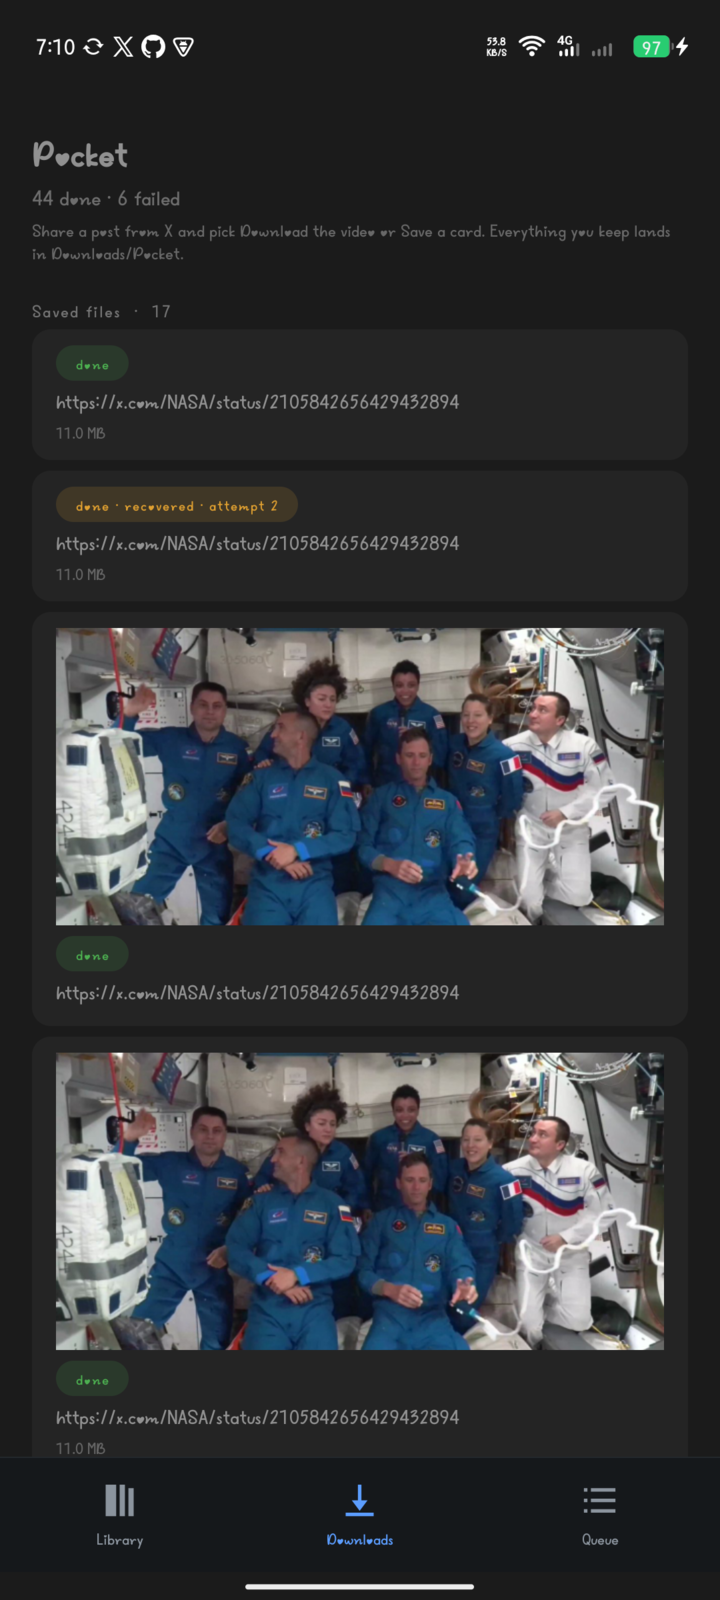
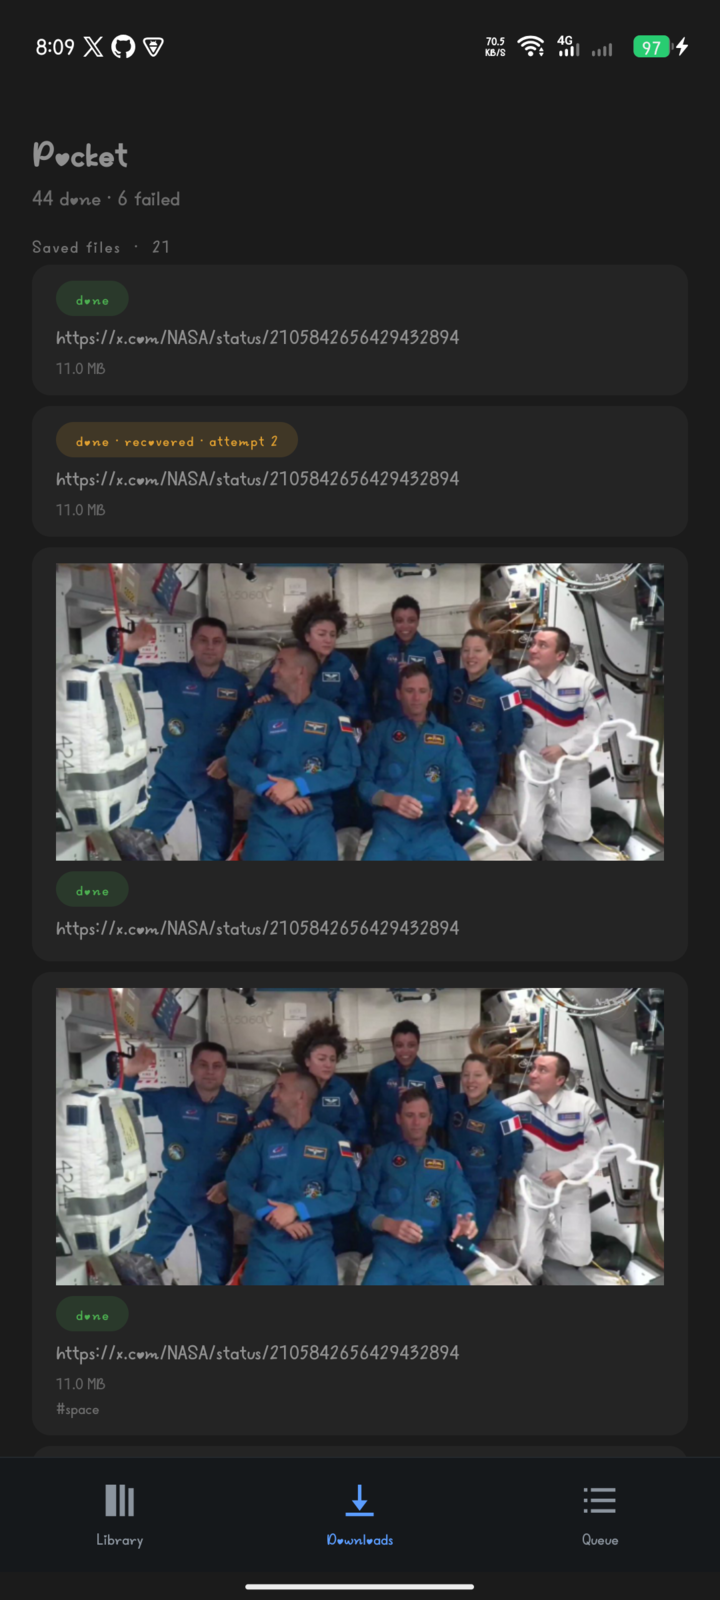
Drop the last line of chrome from the header and make the README true
The header kept a permanent instruction line under the name and summary, which is
not what a minimal header means; the per-view empty states already say what to do,
so the line is gone.

The README still described two in-app buttons for creating jobs, which no longer
exist, and pointed at an earlier recording whose script used them. Sharing is the
only entry point now and the text says so, the superseded gif is removed, and the
tab screenshots are recaptured against this build.

diff --git a/android/app/src/main/java/dev/kouragita/pocket/MainActivity.kt b/android/app/src/main/java/dev/kouragita/pocket/MainActivity.kt
@@ -31,7 +31,6 @@ class MainActivity : Activity() {
     private lateinit var status: TextView
     private lateinit var title: TextView
     private lateinit var summary: TextView
-    private lateinit var hint: TextView
     private lateinit var jobs: LinearLayout
     private lateinit var tabs: LinearLayout
 
@@ -177,13 +176,6 @@ class MainActivity : Activity() {
             setPadding(0, 8, 0, 2)
         }
         summary = TextView(this).apply { textSize = 16f; alpha = 0.7f; setPadding(0, 2, 0, 2) }
-        hint = TextView(this).apply {
-            text = "Share a post from X and pick Download the video or Save a card. " +
-                "Everything you keep lands in Downloads/Pocket."
-            textSize = 13f
-            alpha = 0.65f
-            setPadding(0, 4, 0, 20)
-        }
         jobs = LinearLayout(this).apply { orientation = LinearLayout.VERTICAL }
         tabs = LinearLayout(this).apply {
             orientation = LinearLayout.HORIZONTAL
@@ -198,7 +190,6 @@ class MainActivity : Activity() {
             addView(status)
             addView(title)
             addView(summary)
-            addView(hint)
             addView(jobs)
         }
         val scrolling = ScrollView(this).apply {
@@ -330,7 +321,6 @@ class MainActivity : Activity() {
                 parts.joinToString(" · ")
             }
         }
-        hint.visibility = if (selectedTab == 2 && current.isNotEmpty()) LinearLayout.GONE else LinearLayout.VISIBLE
 
         jobs.removeAllViews()
         val saved = current.filter { it.savedFile != null || it.raw?.optString("kind") == "card" }

diff --git a/README.md b/README.md
@@ -51,11 +51,9 @@ A finished text job arrives as a notification carrying **Copy hash** and **Share
 
 ![notification](docs/pocket-notification.png)
 
-[`docs/share.gif`](docs/share.gif) is one continuous recording on the phone. In order: the
-app open, the system share sheet opened over another app with Pocket in it, the share
-arriving as a job, that result appearing as a heads-up notification, **Slow job (6s)**
-started, the process force-stopped while it was in flight, and after reopening the same job
-back at the top of the list as `done · recovered · attempt 2`.
+[`docs/pocket-story.mp4`](docs/pocket-story.mp4) is the recorded flow on the phone: a
+post shared from the X app, a format chosen, the job running, the app killed while it was
+in flight, and the same job recovered and published after reopening.
 
 ## How it works
 
@@ -160,9 +158,9 @@ Open the app once so the host starts, then share text from any other app. The fi
 share works too: it retries until the host is ready, because a share can launch the
 process before Rivium has finished starting.
 
-Two buttons in the app post to the same endpoint a share uses, so you can exercise
-everything without leaving the app or touching a terminal: **Try a sample**, and
-**Slow job (6s)** for watching recovery.
+Sharing is the only way work enters the app: select text anywhere, tap Share, pick
+Pocket. There are deliberately no in-app buttons for creating jobs, because the point
+is that another app starts the work.
 
 ```sh
 adb forward tcp:8787 tcp:8787  # optional: poke the phone's queue from the laptop
